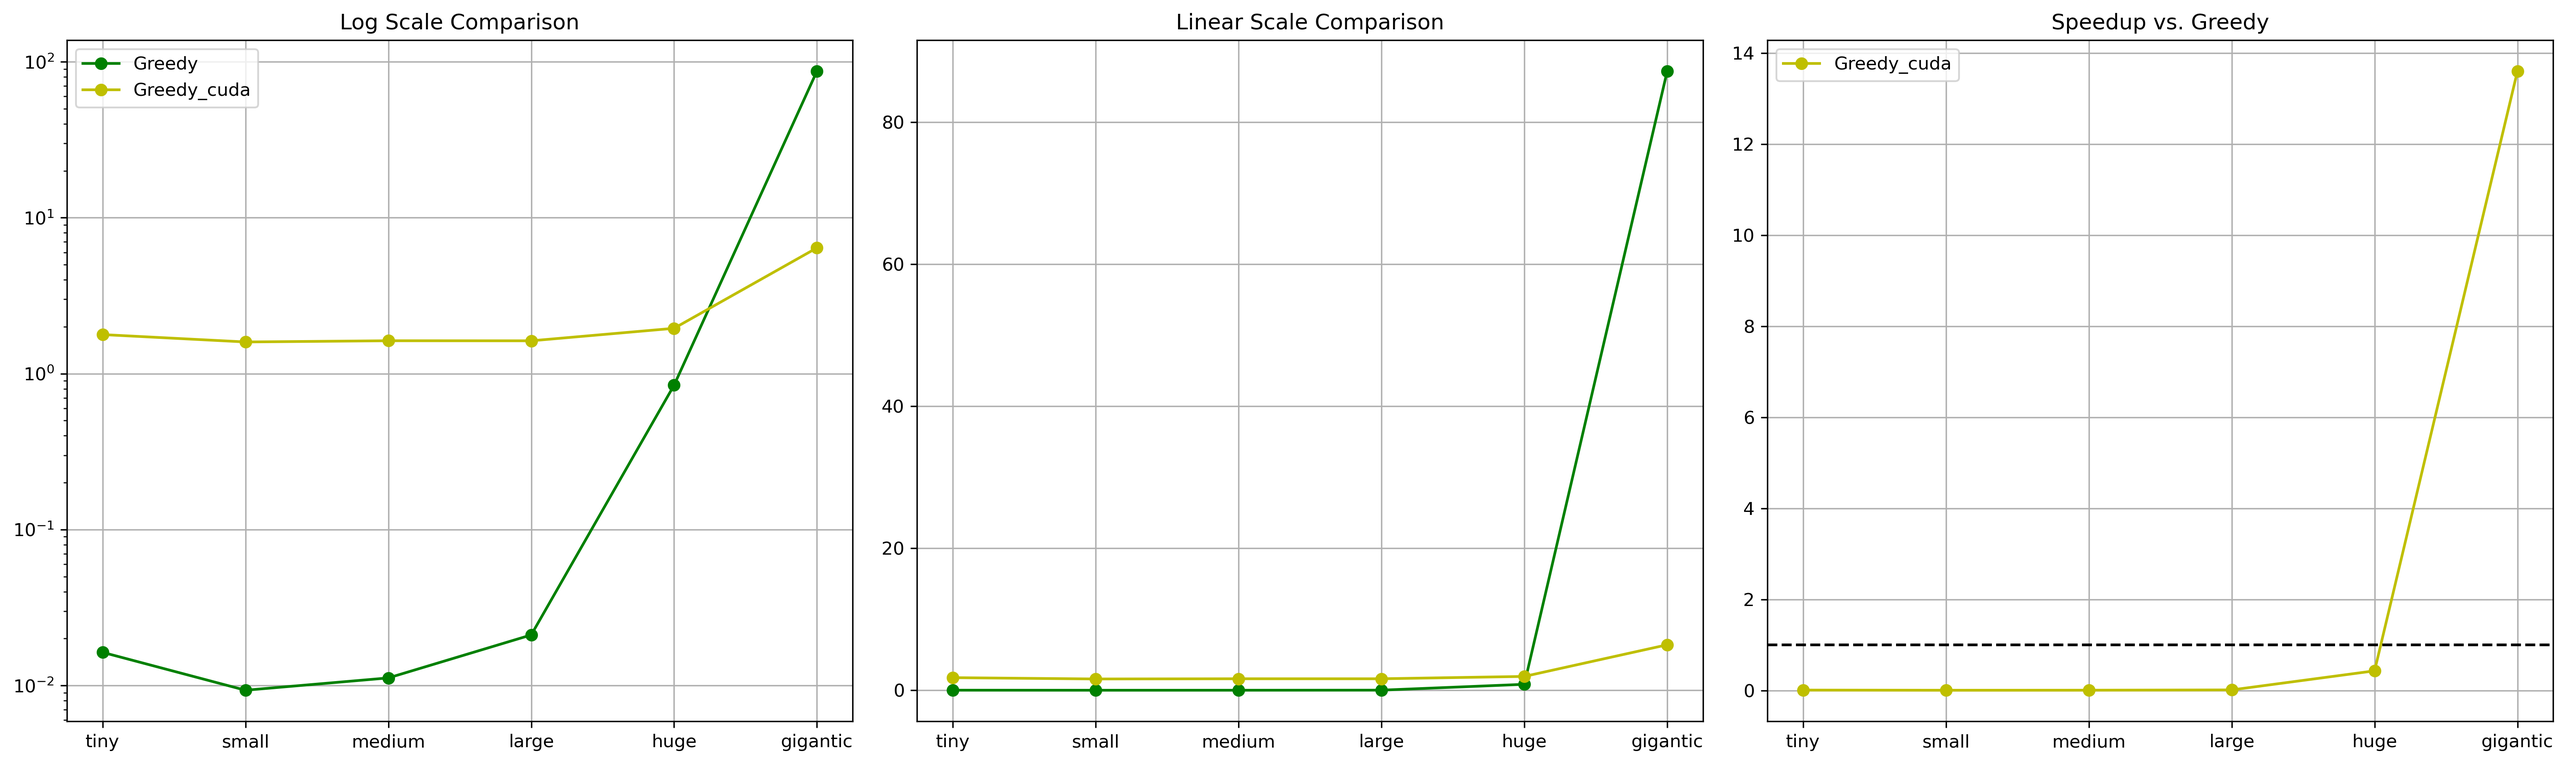
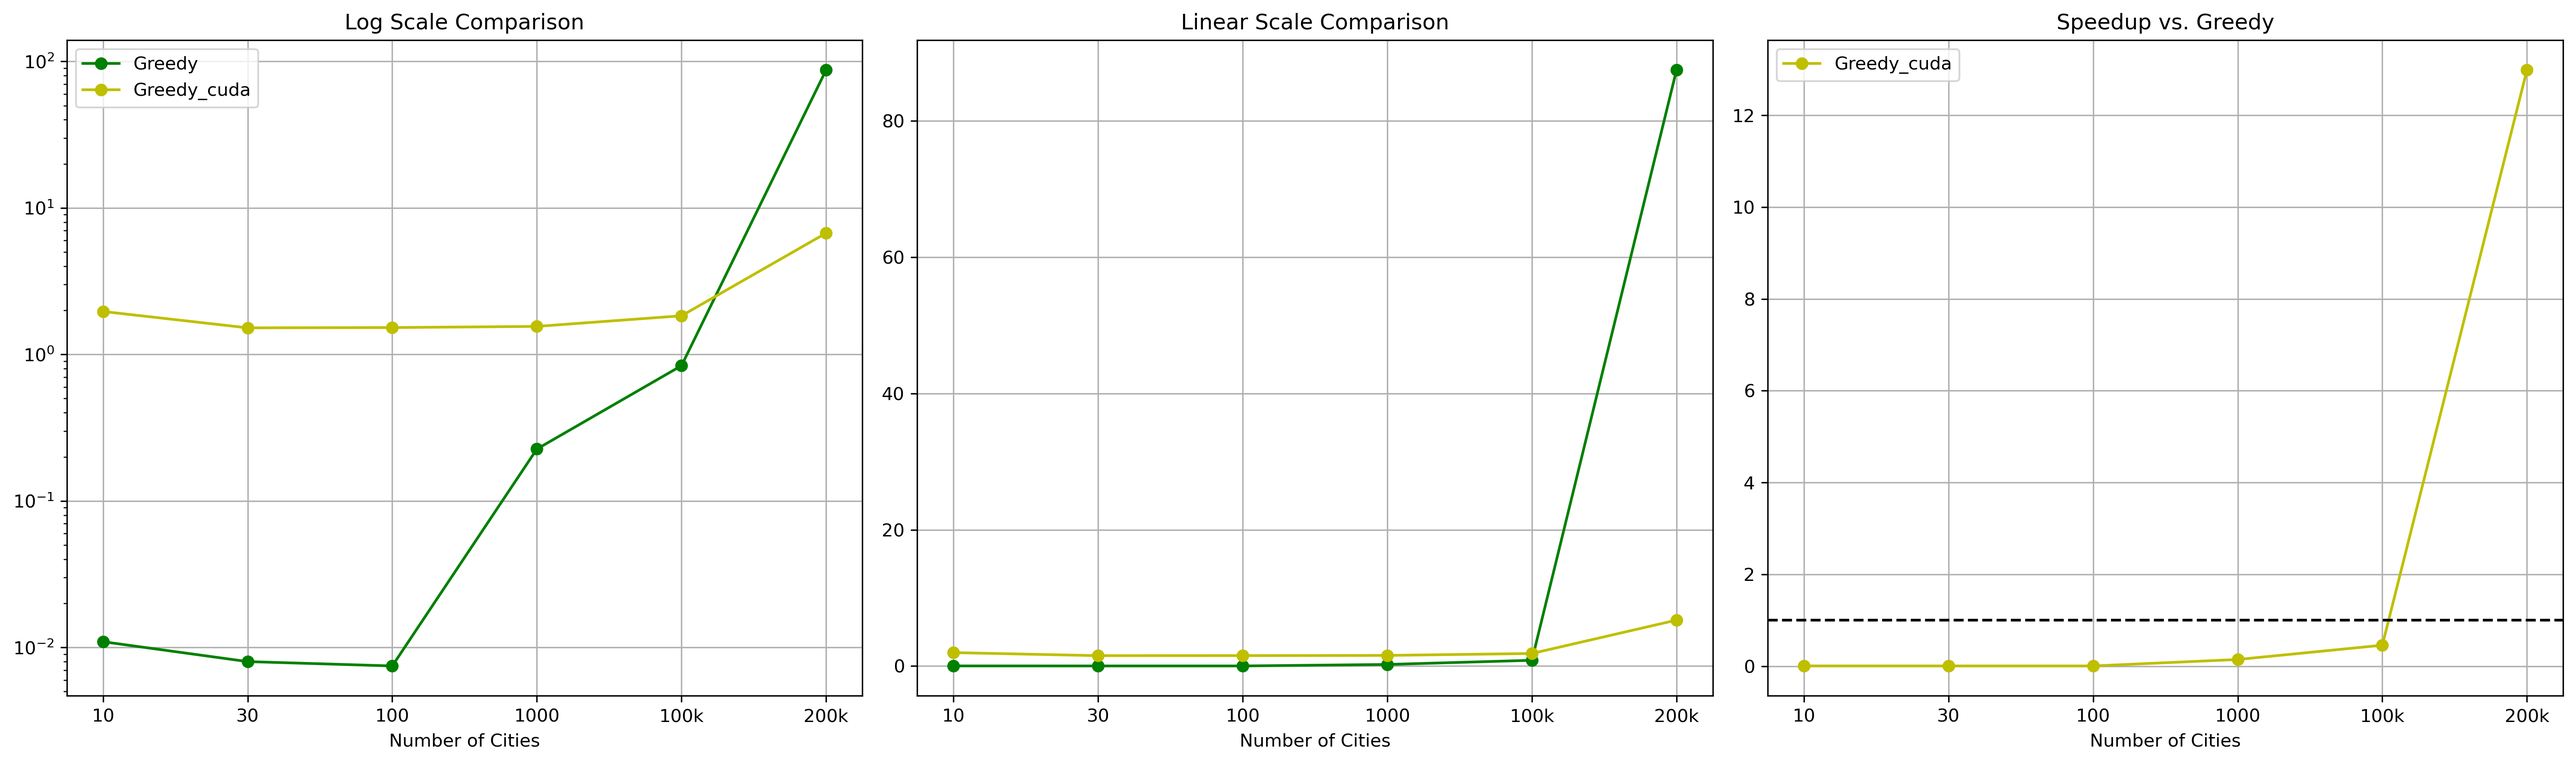
updated comparison code and result

diff --git a/utils/comparisons.py b/utils/comparisons.py
@@ -28,10 +28,20 @@ def plot_results(results):
         'greedy_cuda': 'y'
     }
     
-    datasets = ['tiny', 'small', 'medium', 'large','huge','gigantic']
+    # Map datasets to city counts
+    city_counts = {
+        'tiny': '10',
+        'small': '30',
+        'medium': '100',
+        'large': '1000',
+        'huge': '100k',
+        'gigantic': '200k'
+    }
+    
+    datasets = ['tiny', 'small', 'medium', 'large', 'huge', 'gigantic']
     x_pos = range(len(datasets))
     
-    # Plot 1: Log scale (good for small differences)
+    # Plot 1: Log scale
     for impl, timings in results.items():
         if timings:
             ax1.plot(x_pos, [timings[d] for d in datasets], 
@@ -40,11 +50,12 @@ def plot_results(results):
     ax1.set_yscale('log')
     ax1.set_title('Log Scale Comparison')
     ax1.set_xticks(x_pos)
-    ax1.set_xticklabels(datasets)
+    ax1.set_xticklabels([city_counts[d] for d in datasets])
+    ax1.set_xlabel('Number of Cities')
     ax1.grid(True)
     ax1.legend()
     
-    # Plot 2: Linear scale (good for large differences)
+    # Plot 2: Linear scale
     for impl, timings in results.items():
         if timings:
             ax2.plot(x_pos, [timings[d] for d in datasets], 
@@ -52,10 +63,11 @@ def plot_results(results):
                     label=f'{impl.capitalize()}')
     ax2.set_title('Linear Scale Comparison')
     ax2.set_xticks(x_pos)
-    ax2.set_xticklabels(datasets)
+    ax2.set_xticklabels([city_counts[d] for d in datasets])
+    ax2.set_xlabel('Number of Cities')
     ax2.grid(True)
     
-    # Plot 3: Speedup relative to baseline (greedy)
+    # Plot 3: Speedup relative to baseline
     if 'greedy' in results:
         baseline = results['greedy']
         for impl, timings in results.items():
@@ -67,18 +79,13 @@ def plot_results(results):
         ax3.axhline(y=1.0, color='k', linestyle='--')
         ax3.set_title('Speedup vs. Greedy')
         ax3.set_xticks(x_pos)
-        ax3.set_xticklabels(datasets)
+        ax3.set_xticklabels([city_counts[d] for d in datasets])
+        ax3.set_xlabel('Number of Cities')
         ax3.grid(True)
         ax3.legend()
     
     plt.tight_layout()
     plt.savefig('comparison_results.png', dpi=300, bbox_inches='tight')
-    print("Plot saved as comparison_results.png")
-    
-    try:
-        plt.show()
-    except Exception as e:
-        print(f"Could not display plot: {e}")
 
 if __name__ == "__main__":
     all_implementations = ['brute', 'greedy', 'genetic', 'dp', 'greedy_cuda']
